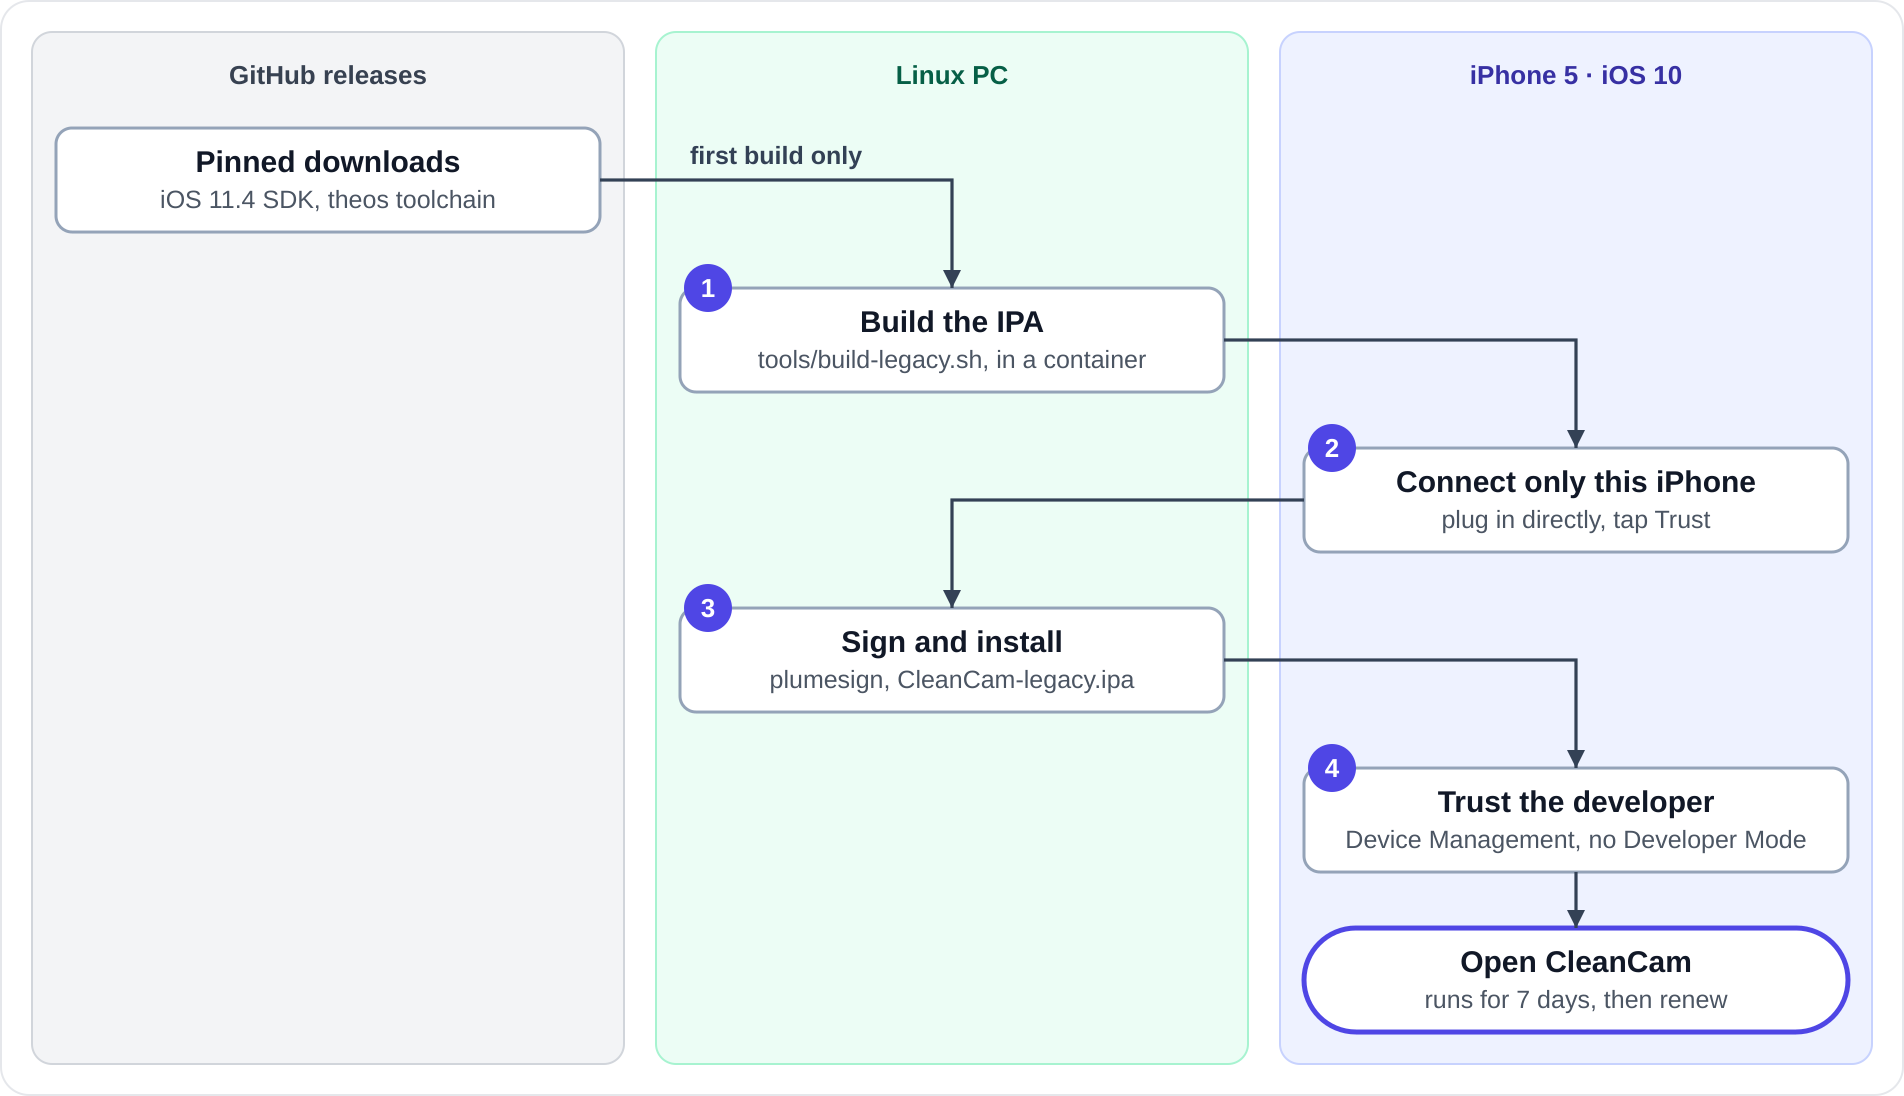
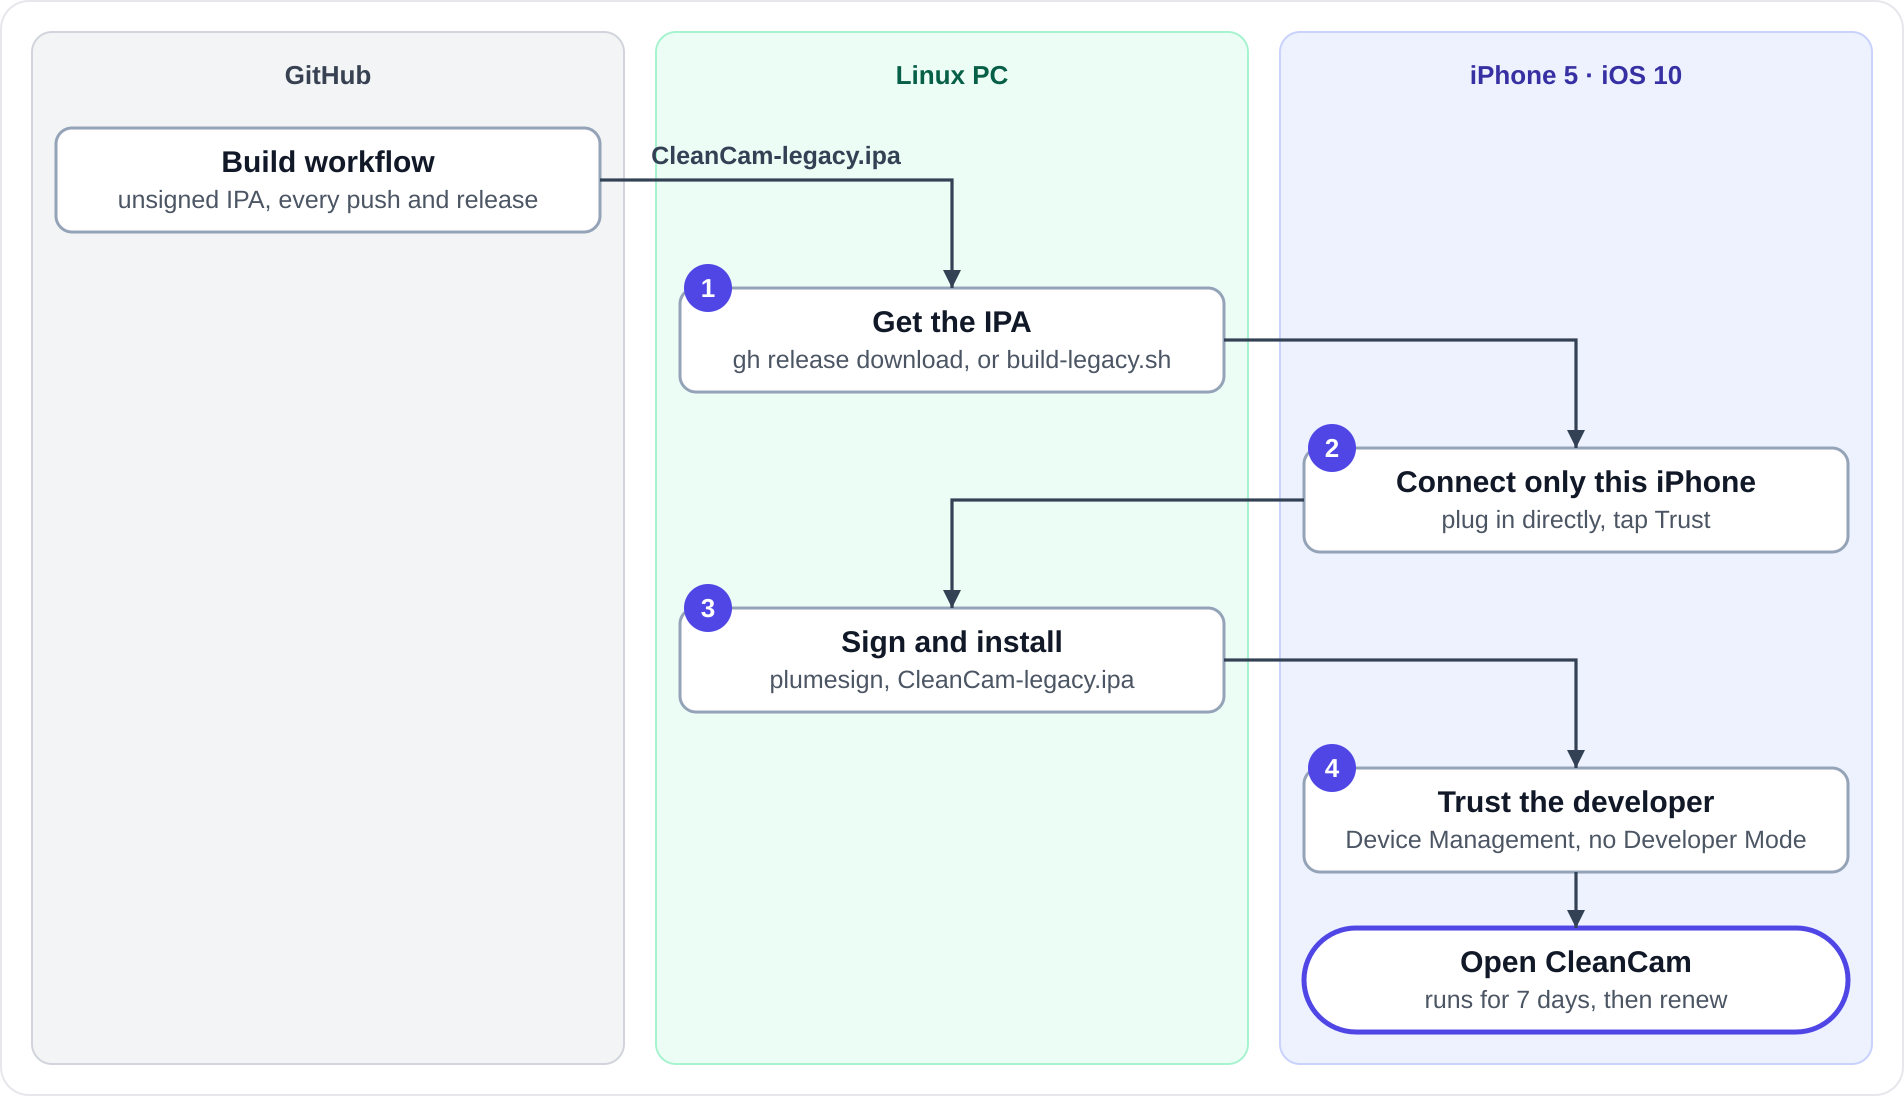
Point the docs at the release IPAs and the PulseAudio receiver
Both IPAs now come from the latest release with gh release download,
and CleanCam-legacy.ipa no longer needs a build on the PC. The README
says how to publish a release, and the skills confirm the CleanCam
devices with pactl on PulseAudio.

diff --git a/README.md b/README.md
@@ -8,7 +8,7 @@ CleanCam sends only the camera's picture and the iPhone's microphone over the US
 
 CleanCam streams the back camera's frames instead of the screen, so the PC receives the clean picture.
 
-![On the iPhone, the back camera and the microphone feed the CleanCam app, which encodes the video as H.264 at 1920x1080, 20 to 30 fps and up to 10 Mbps, converts the microphone to 48 kHz mono PCM, and serves them on TCP ports 5000 and 5001; on port 5002 it takes the PC's speaker sound and plays it on the loudspeaker. The USB cable, through usbmuxd and iproxy, carries all three ports both ways; over WiFi, the PC reaches the iPhone's IP directly. On the Linux PC, one ffmpeg decodes the video into v4l2loopback's /dev/video10, named CleanCam; another copies the microphone into a PipeWire pipe-tunnel source, the CleanCam microphone; and cat passes what apps play to the CleanCam speaker, a pipe-tunnel sink, back to the phone. Zoom, OBS or a browser picks CleanCam as the camera, the microphone and the speaker.](docs/images/stream-flow.png)
+![On the iPhone, the back camera and the microphone feed the CleanCam app, which encodes the video as H.264 at 1920x1080, 20 to 30 fps and up to 10 Mbps, converts the microphone to 48 kHz mono PCM, and serves them on TCP ports 5000 and 5001; on port 5002 it takes the PC's speaker sound and plays it on the loudspeaker. The USB cable, through usbmuxd and iproxy, carries all three ports both ways; over WiFi, the PC reaches the iPhone's IP directly. On the Linux PC, one ffmpeg decodes the video into v4l2loopback's /dev/video10, named CleanCam; another copies the microphone into a PipeWire or PulseAudio pipe source, the CleanCam microphone; and cat passes what apps play to the CleanCam speaker, a pipe sink, back to the phone. Zoom, OBS or a browser picks CleanCam as the camera, the microphone and the speaker.](docs/images/stream-flow.png)
 
 - **Preview:** the phone shows the picture with a zoom slider, which switches lenses on phones with more than one. The zoom label turns yellow where the camera starts to upscale.
 - **Focus:** focus and exposure follow the largest face, or the center while no face shows. Tap the preview to hold them on a point; a long press hands them back.
@@ -27,13 +27,13 @@ CleanCam streams the back camera's frames instead of the screen, so the PC recei
 
 An iOS app normally comes from the App Store or from Xcode on a Mac, and a Linux PC lacks both. The app then stays unbuilt and unsigned, and an iPhone runs only signed apps. GitHub Actions builds the app, and plumesign signs and installs it with a free Apple ID over the USB cable.
 
-![The Build workflow on GitHub builds an unsigned CleanCam.ipa on every push. On the Linux PC: 1, get the IPA; 2, install plumesign. On the iPhone: 3, connect it and tap Trust. On the PC: 4, log in with your Apple ID; 5, sign and install over the USB cable. On the iPhone: 6, trust the developer, after turning on Developer Mode on iOS 16 or later. Then open CleanCam, which runs for 7 days.](docs/images/install-steps.png)
+![The Build workflow on GitHub builds an unsigned CleanCam.ipa on every push and publishes it with each release. On the Linux PC: 1, get the IPA with gh release download; 2, install plumesign. On the iPhone: 3, connect it and tap Trust. On the PC: 4, log in with your Apple ID; 5, sign and install over the USB cable. On the iPhone: 6, trust the developer, after turning on Developer Mode on iOS 16 or later. Then open CleanCam, which runs for 7 days.](docs/images/install-steps.png)
 
-1. **Get the IPA.** GitHub Actions builds an unsigned `CleanCam.ipa` on every push. Download it from the run's `CleanCam-ipa` artifact:
+1. **Get the IPA.** Download the unsigned `CleanCam.ipa` from the [latest release](https://github.com/dogkeeper886/cleancam/releases/latest):
    ```sh
-   gh run download <run-id> -n CleanCam-ipa -D build
+   gh release download -R dogkeeper886/cleancam -p CleanCam.ipa -D build
    ```
-   In a fork, enable the workflow in the Actions tab first.
+   GitHub Actions also builds it on every push. For a commit after the release, download the run's `CleanCam-ipa` artifact with `gh run download <run-id> -n CleanCam-ipa -D build`. In a fork, enable the workflow in the Actions tab first.
 2. **Install plumesign**, Impactor's command-line signer. Put it on `PATH` or set `PLUMESIGN`. `tools/plumesign.sh` runs it natively, or in podman or docker when it needs a newer glibc than the PC has.
 3. **Connect the iPhone.** Plug it directly into the PC, since hubs can drop the link. Unlock it and tap "Trust This Computer".
 4. **Log in** with your Apple ID. Type the password and 2FA code at the prompts; the password shows as you type.
@@ -58,7 +58,7 @@ These phones were tested by hand over the USB cable, with the video, the microph
 
 ## Receive on the PC
 
-`receiver/cleancam-receive.sh` turns the stream into the "CleanCam" webcam, microphone and speaker. It needs usbmuxd, `iproxy` (libusbmuxd), ffmpeg and the v4l2loopback kernel module. The microphone and the speaker also need PipeWire as the sound server, with `pw-cli`; on another sound server, the receiver runs video only.
+`receiver/cleancam-receive.sh` turns the stream into the "CleanCam" webcam, microphone and speaker. It needs usbmuxd, `iproxy` (libusbmuxd), ffmpeg and the v4l2loopback kernel module. The microphone and the speaker also need PipeWire as the sound server with `pw-cli`, or PulseAudio with `pactl`; on another sound server, the receiver runs video only.
 
 ![On the Linux PC: 1, start the receiver, adding the iPhone's IP for WiFi. On the iPhone: 2, open CleanCam and allow its permission prompts; its status turns to Streaming to PC. On the PC: 3, pick CleanCam as the camera, the microphone and the speaker in the video app. On the iPhone: 4, keep CleanCam open, using Screen off instead of locking.](docs/images/receive-steps.png)
 
@@ -103,11 +103,15 @@ A free Apple ID signs CleanCam for 7 days, counted from step 5. Once the 7 days 
 
 ## iPhone 5 and 5c
 
-The app needs iOS 15, but a 32-bit iPhone such as the iPhone 5 stops at iOS 10. Xcode dropped 32-bit apps years ago, and the Xcode on GitHub's macOS runners is too new to build one. `CleanCamLegacy/` is a second app for these phones, written in Objective-C for iOS 10. It has the same controls, ports and stream formats, so the receiver stays as it is, and it builds on the Linux PC.
+The app needs iOS 15, but a 32-bit iPhone such as the iPhone 5 stops at iOS 10. Xcode dropped 32-bit apps years ago, and the Xcode on GitHub's macOS runners is too new to build one. `CleanCamLegacy/` is a second app for these phones, written in Objective-C for iOS 10. It has the same controls, ports and stream formats, so the receiver stays as it is, and it builds on Linux, in GitHub Actions or on your PC.
 
-![On GitHub releases, pinned downloads of the iOS 11.4 SDK and the theos toolchain feed the first build. On the Linux PC: 1, build the IPA with tools/build-legacy.sh in a container. On the iPhone 5 on iOS 10: 2, connect only this iPhone, plugged in directly, and tap Trust. On the PC: 3, sign and install CleanCam-legacy.ipa with plumesign. On the iPhone: 4, trust the developer under Device Management, with no Developer Mode. Then open CleanCam, which runs for 7 days.](docs/images/legacy-steps.png)
+![The Build workflow on GitHub builds an unsigned CleanCam-legacy.ipa on every push and publishes it with each release. On the Linux PC: 1, get the IPA with gh release download, or build it with tools/build-legacy.sh. On the iPhone 5 on iOS 10: 2, connect only this iPhone, plugged in directly, and tap Trust. On the PC: 3, sign and install CleanCam-legacy.ipa with plumesign. On the iPhone: 4, trust the developer under Device Management, with no Developer Mode. Then open CleanCam, which runs for 7 days.](docs/images/legacy-steps.png)
 
-1. **Build the IPA.** The first time it runs, `tools/build-legacy.sh` downloads the iOS 11.4 SDK and the theos project's iOS toolchain, checks them against pinned checksums, compiles in podman or docker, and writes `build/CleanCam-legacy.ipa`:
+1. **Get the IPA.** Download the unsigned `CleanCam-legacy.ipa` from the [latest release](https://github.com/dogkeeper886/cleancam/releases/latest):
+   ```sh
+   gh release download -R dogkeeper886/cleancam -p CleanCam-legacy.ipa -D build
+   ```
+   Or build it yourself. The first time it runs, `tools/build-legacy.sh` downloads the iOS 11.4 SDK and the theos project's iOS toolchain, checks them against pinned checksums, compiles in podman or docker, and writes `build/CleanCam-legacy.ipa`:
    ```sh
    tools/build-legacy.sh
    ```
@@ -127,11 +131,13 @@ Then open CleanCam, allow the camera and microphone prompts, and [receive on the
 
 Change the app from any computer: edit the Swift code in `CleanCam/`, then push. The Build workflow generates the Xcode project from `project.yml` with XcodeGen and compiles it on a GitHub macOS runner. Keep the code within the `deploymentTarget` in `project.yml` (iOS 15), and guard newer APIs with `if #available`.
 
-CleanCamLegacy changes on the PC instead: edit the Objective-C code in `CleanCamLegacy/`, then repeat steps 1 and 3 of [iPhone 5 and 5c](#iphone-5-and-5c). Keep it within iOS 10's APIs; clang warns about newer ones. When you change the Swift app, port the change to `CleanCamLegacy/` too, so the iPhone 5 gets it.
+CleanCamLegacy builds on Linux instead: edit the Objective-C code in `CleanCamLegacy/`, build it with `tools/build-legacy.sh`, and install it with step 3 of [iPhone 5 and 5c](#iphone-5-and-5c). The Build workflow also builds it on a GitHub Linux runner on every push. Keep it within iOS 10's APIs; clang warns about newer ones. When you change the Swift app, port the change to `CleanCamLegacy/` too, so the iPhone 5 gets it.
+
+Publish a release by pushing a `v*` tag, such as `v0.2.0`. The Build workflow attaches both IPAs and their SHA-256 sums to it. Raise the version in `project.yml` and `CleanCamLegacy/Info.plist` first.
 
 ## Setup details and troubleshooting
 
 `.claude/skills/developing-cleancam/` is a Claude Code skill that sets up the iPhone, the PC and the signer, and `.claude/skills/developing-cleancam-legacy/` sets up the iPhone 5 the same way. Both use these reference files:
 
-- **[`host-setup.md`](.claude/skills/developing-cleancam/reference/host-setup.md):** packages per distribution, how to pick and verify a plumesign release, and the extra steps RHEL 9 family systems need.
+- **[`host-setup.md`](.claude/skills/developing-cleancam/reference/host-setup.md):** packages per distribution, how to pick and verify a plumesign release, and the extra steps RHEL 8 and 9 family systems need.
 - **[`troubleshooting.md`](.claude/skills/developing-cleancam/reference/troubleshooting.md):** symptoms, causes and fixes, from USB hubs and pairing errors to Apple sign-in errors, iPhone 5 build errors and a missing camera.

diff --git a/.claude/skills/developing-cleancam-legacy/SKILL.md b/.claude/skills/developing-cleancam-legacy/SKILL.md
@@ -18,13 +18,13 @@ Set up CleanCamLegacy on a 32-bit iPhone and Linux PC:
 6. Confirm the pairing and the phone's iOS with `idevicepair validate` and `ideviceinfo -k ProductVersion`.
 7. Ask the user to log in from their own terminal with `tools/plumesign.sh account login -u <their Apple ID>` when `tools/plumesign.sh account list` shows none, keeping the password and 2FA code out of the chat.
 8. Leave the login's output and any container log unread, since plumesign echoes the password.
-9. Build `build/CleanCam-legacy.ipa` with `tools/build-legacy.sh`, which downloads the pinned iOS 11.4 SDK and theos toolchain once and compiles in a container.
+9. Fetch `CleanCam-legacy.ipa` from the latest release with `gh release download -R dogkeeper886/cleancam -p CleanCam-legacy.ipa -D build`, or build `build/CleanCam-legacy.ipa` with `tools/build-legacy.sh`, which downloads the pinned iOS 11.4 SDK and theos toolchain once and compiles in a container.
 10. Sign and install with `tools/plumesign.sh sign --package build/CleanCam-legacy.ipa --apple-id --register-and-install --udid "$(idevice_id -l | head -1)" < /dev/null 2>&1 | grep -v DEBUG | tail -5`.
 11. On a first install, ask the user to trust the developer in Settings → General → Device Management, named Profiles & Device Management on some phones, since iOS 10 has no Developer Mode.
 12. Ask the user to open CleanCam and allow the camera and microphone prompts; iOS 10 asks no local network question.
 13. Start `receiver/cleancam-receive.sh` unchanged, since CleanCamLegacy serves the main app's ports and formats.
 14. Confirm the video with `ffprobe -hide_banner -loglevel error -f h264 -i tcp://127.0.0.1:5000 -show_entries stream=profile,width,height -of compact`, which works even while a video app holds the webcam.
-15. Confirm the microphone and the speaker exist with `wpctl status | grep CleanCam`.
+15. Confirm the microphone and the speaker exist with `wpctl status | grep CleanCam`, or on PulseAudio with `pactl list short sources` and `pactl list short sinks`.
 16. Ask the user to pick "CleanCam" as the camera, the microphone and the speaker in the video app, restarting the app when it opened before the stream.
 17. Tell the user to keep CleanCam open and use its Screen off button, since iOS stops the camera when the screen locks.
 18. Renew the 7-day free signing by repeating step 10 with the same IPA when the app stops opening.

diff --git a/.claude/skills/developing-cleancam/SKILL.md b/.claude/skills/developing-cleancam/SKILL.md
@@ -20,7 +20,7 @@ Set up CleanCam on a real iPhone and Linux PC:
 9. Install a plumesign build that passes Apple sign-in, using the patched fork from `reference/host-setup.md` when upstream fails.
 10. Ask the user to log in from their own terminal with `tools/plumesign.sh account login -u <their Apple ID>`, keeping the password and 2FA code out of the chat.
 11. Leave the login's output and any container log unread, since plumesign echoes the password.
-12. Fetch `CleanCam.ipa` from the `CleanCam-ipa` artifact of a GitHub Actions run, since only macOS can build it.
+12. Fetch `CleanCam.ipa` from the latest release with `gh release download -R dogkeeper886/cleancam -p CleanCam.ipa -D build`, or from the `CleanCam-ipa` artifact of a GitHub Actions run for an unreleased commit, since only macOS can build it.
 13. Sign and install with `tools/plumesign.sh sign --package build/CleanCam.ipa --apple-id --register-and-install --udid "$(idevice_id -l | head -1)" < /dev/null 2>&1 | grep -v DEBUG | tail -5`.
 14. On iOS 16 or later, ask the user to turn on Developer Mode in Settings → Privacy & Security and restart the phone.
 15. On a first install, ask the user to trust the developer in Settings → General → VPN & Device Management.
@@ -28,7 +28,7 @@ Set up CleanCam on a real iPhone and Linux PC:
 17. Start `receiver/cleancam-receive.sh`, which turns the USB stream into the "CleanCam" webcam, microphone and speaker.
 18. For WiFi instead of the cable, start it with the iPhone's IP: `receiver/cleancam-receive.sh <iPhone IP>`.
 19. Confirm the webcam receives video with `ffprobe -hide_banner -loglevel error -f v4l2 -show_entries stream=width,height -of compact "/dev/video${VIDEO_NR:-10}"`.
-20. Confirm the microphone and the speaker exist with `wpctl status | grep CleanCam`.
+20. Confirm the microphone and the speaker exist with `wpctl status | grep CleanCam`, or on PulseAudio with `pactl list short sources` and `pactl list short sinks`.
 21. Ask the user to pick "CleanCam" as the camera, the microphone and the speaker in the video app, restarting the app when it opened before the stream.
 22. Tell the user to keep CleanCam open, since iOS stops the camera when the screen locks or the app leaves the foreground; its Screen off button only dims the screen.
 23. Renew the 7-day free signing by repeating step 13 when the app stops opening.
